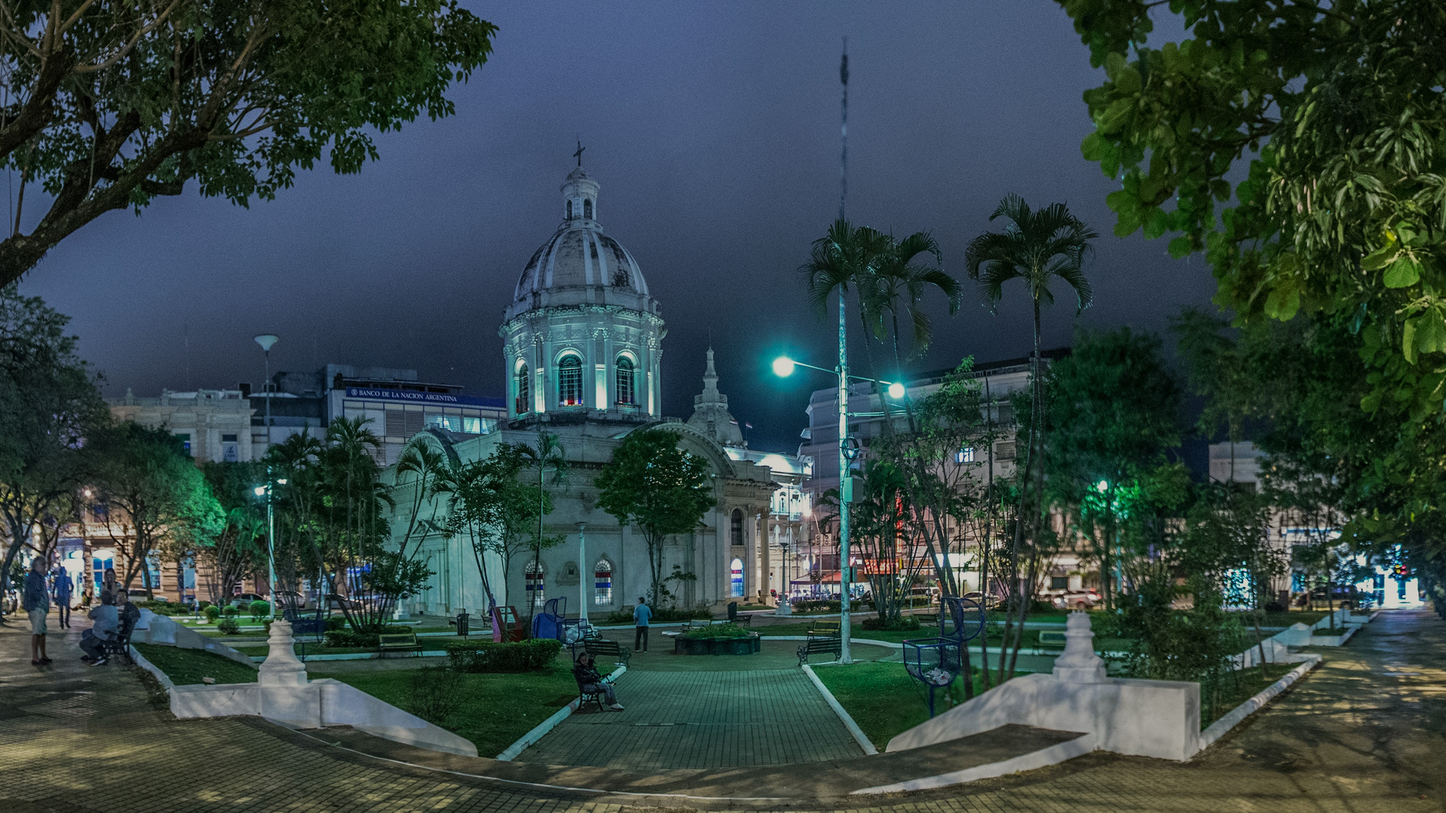
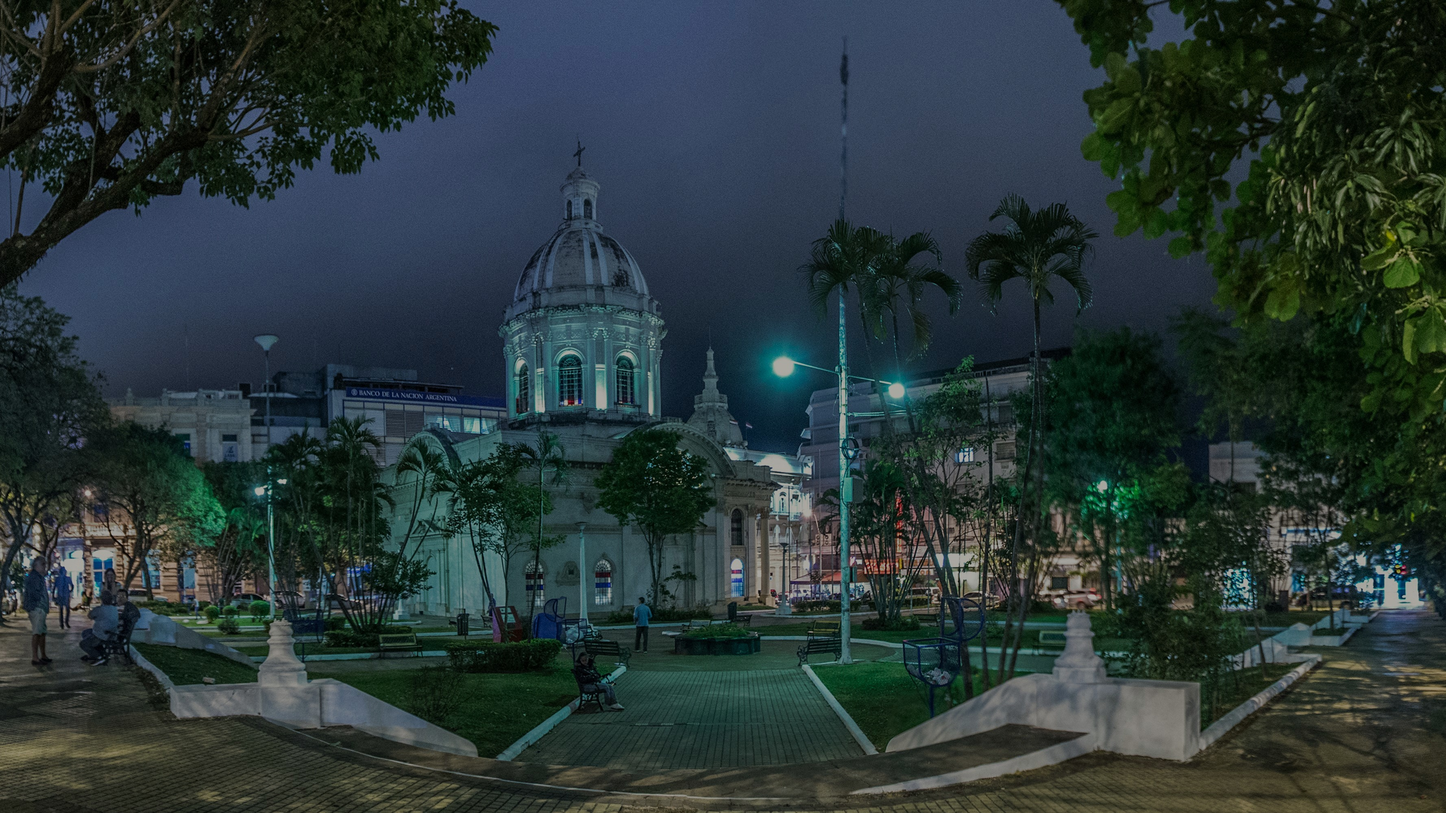
Add images to carousel and modify one of them

diff --git a/src/components/Banner.js b/src/components/Banner.js
@@ -4,6 +4,8 @@ import Carousel from 'react-bootstrap/Carousel'
 import bg1 from '../assets/images/bg1.jpg'
 import bg2 from '../assets/images/bg2.jpg'
 import bg3 from '../assets/images/bg3.jpg'
+import bg4 from '../assets/images/bg4.jpg'
+import bg5 from '../assets/images/bg5.jpg'
 
 const Banner = (props) => (
   <>
@@ -53,6 +55,24 @@ const Banner = (props) => (
           <div className="item"
             style={{
               background: `url(${bg3}) no-repeat center center `,
+              backgroundSize: 'cover'
+            }}
+          >
+          </div>
+        </Carousel.Item>
+        <Carousel.Item>
+          <div className="item"
+            style={{
+              background: `url(${bg4}) no-repeat center center `,
+              backgroundSize: 'cover'
+            }}
+          >
+          </div>
+        </Carousel.Item>
+        <Carousel.Item>
+          <div className="item"
+            style={{
+              background: `url(${bg5}) no-repeat center center `,
               backgroundSize: 'cover'
             }}
           >
